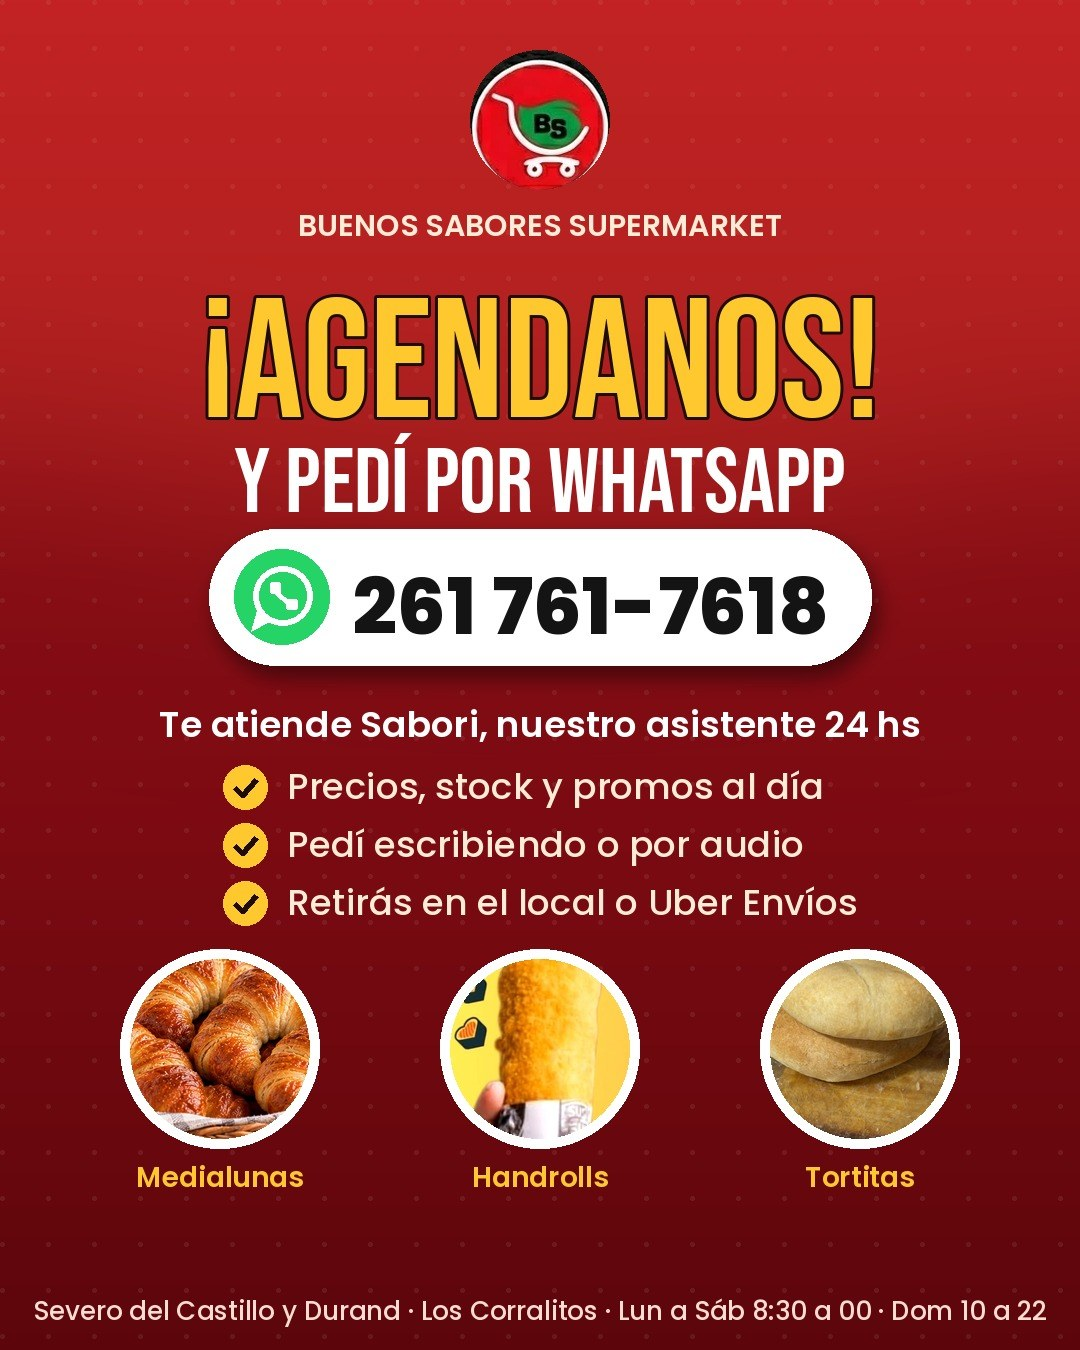
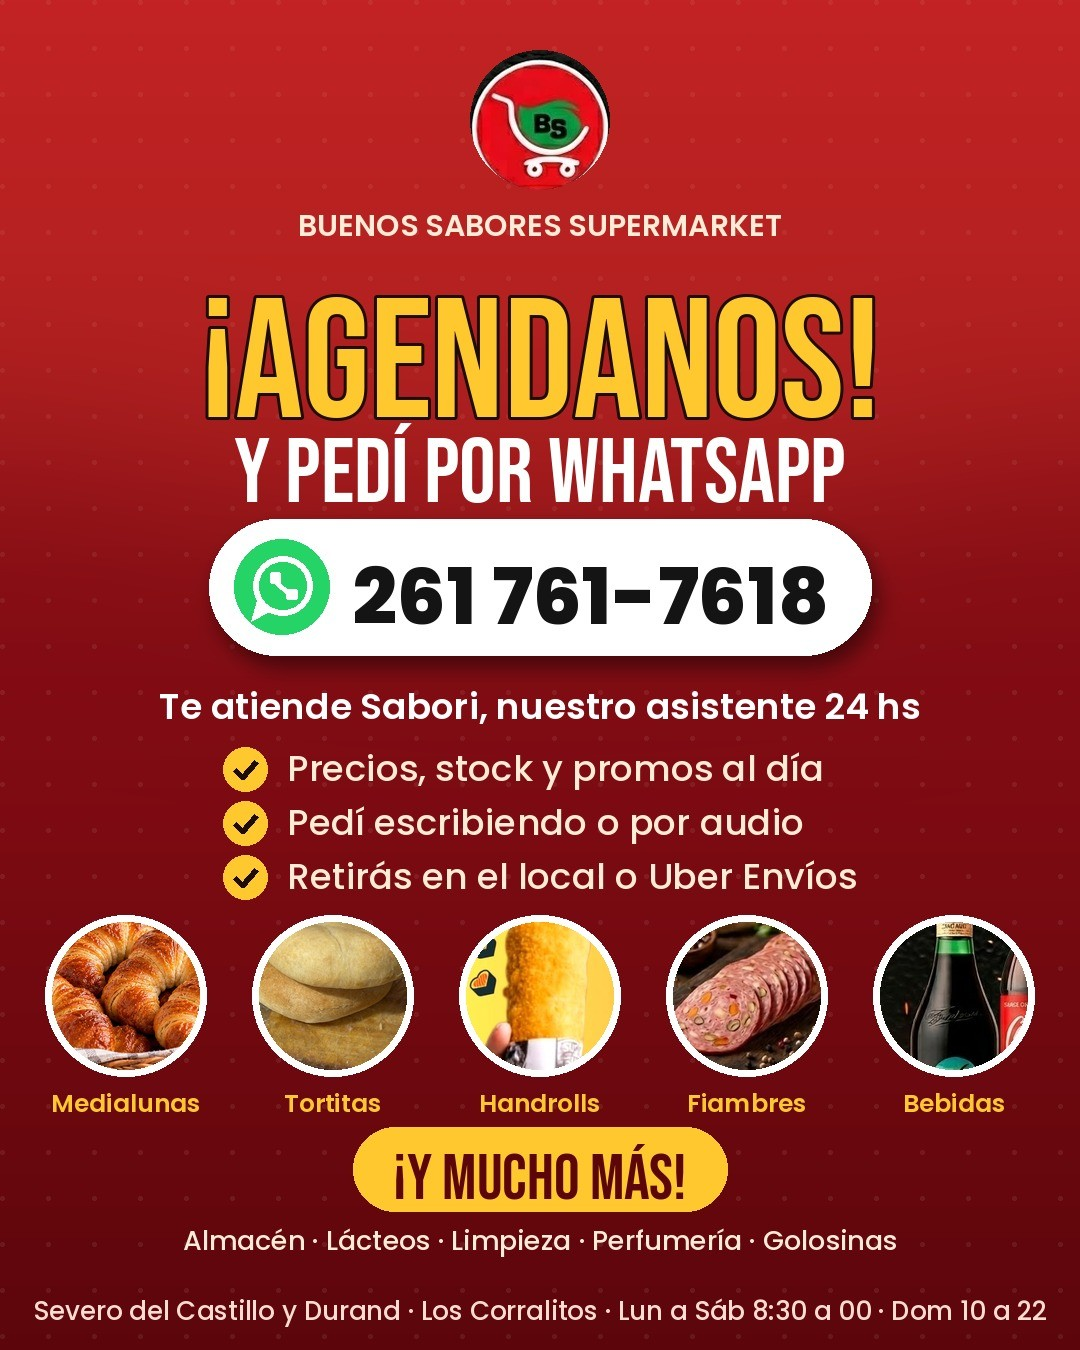
Agendanos nueva para Instagram
Claude-Session: https://claude.ai/code/session_01QSTG38VkH7bxon9T7onJJR

Changed region(s): [[0.0306, 0.3111, 0.9778, 0.9333], [0.7944, 0.4044, 0.825, 0.4356]]

diff --git a/redes/pasar.html b/redes/pasar.html
@@ -1,0 +1,6 @@
+<!doctype html><meta charset="utf-8"><title>Pasando imagen</title><body style="font-family:sans-serif">Pasando imagen…<script>
+(async()=>{const n=new URLSearchParams(location.search).get('img');
+const buf=new Uint8Array(await (await fetch(n+'.jpg?v='+Date.now())).arrayBuffer());
+let s='';for(let i=0;i<buf.length;i+=32768)s+=String.fromCharCode.apply(null,buf.subarray(i,i+32768));
+location.replace('https://www.instagram.com/#bsimg='+n+':'+btoa(s));})();
+</script>
